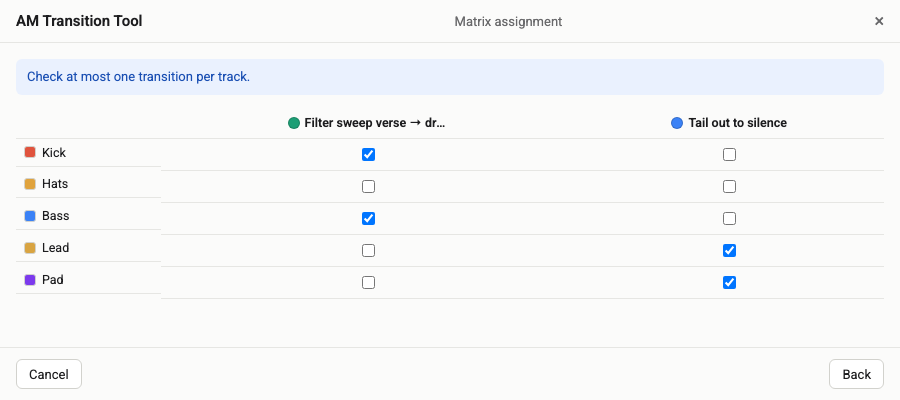
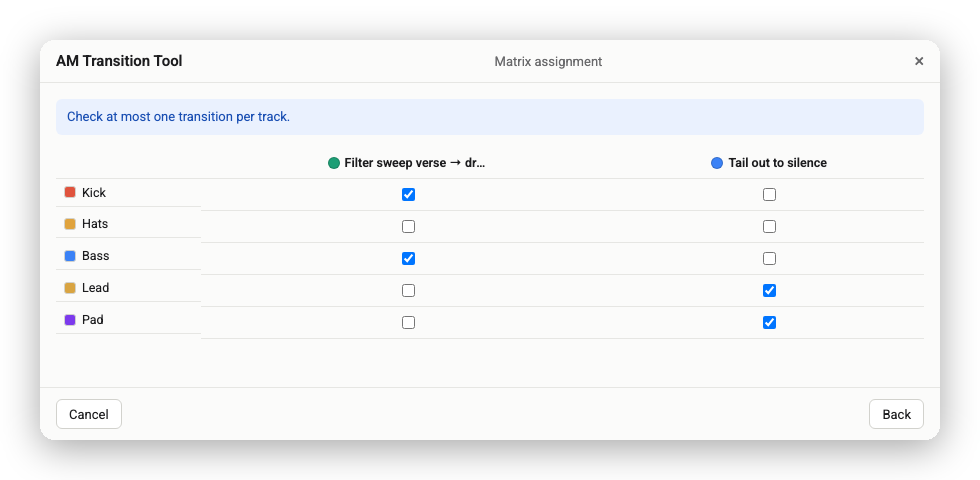
Trim screenshots to essentials and style them with rounded corners and shadow

diff --git a/README.md b/README.md
@@ -77,9 +77,11 @@ Everything else about the captured devices comes along unchanged. A
 transition can also be pure silence instead of (or in addition to) an
 effect — useful for a plain break at the end of a loop.
 
-![Edit transition](screenshots/01-edit-transition.png)
+<br>
+
 ![Effect chain editor](screenshots/02-effect-chain.png)
-![Silence option](screenshots/03-silence-option.png)
+
+<br>
 
 **3. Save it for quick access later.** If there's a chance you'll want this
 transition again, this is the point to save it as a preset or add it to your
@@ -87,7 +89,11 @@ library — before clicking Apply. That way it's one click away next time,
 instead of inserting the captured effect chain and setting up the silence
 duration from scratch.
 
+<br>
+
 ![Library](screenshots/04-library.png)
+
+<br>
 
 **4. Apply.** The extension duplicates every selected track, clears the
 original's content in that time range (so it plays silence there), trims the
@@ -100,6 +106,8 @@ except for the section it now hands off to.
 currently loaded library against every track at once, so you can assign
 several transitions to different tracks in one place instead of hunting
 through the Arrangement.
+
+<br>
 
 ![Matrix view](screenshots/05-matrix.png)
 